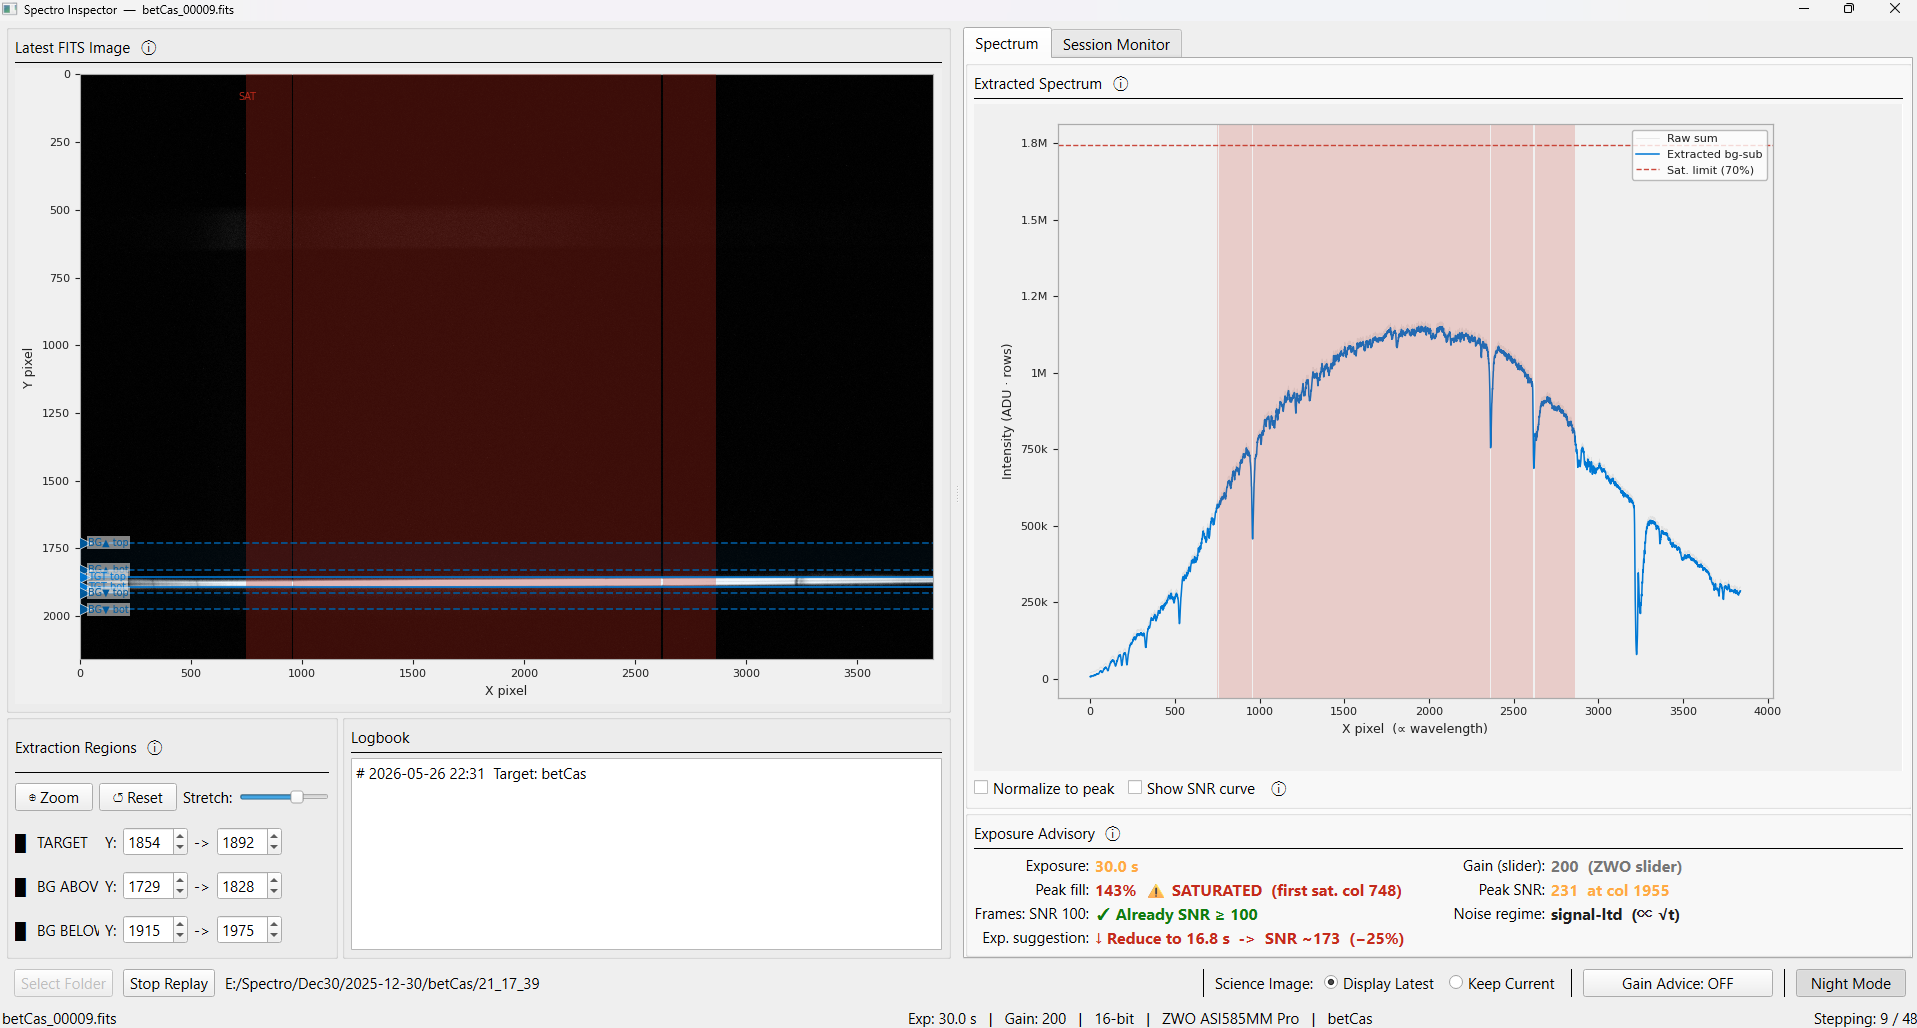
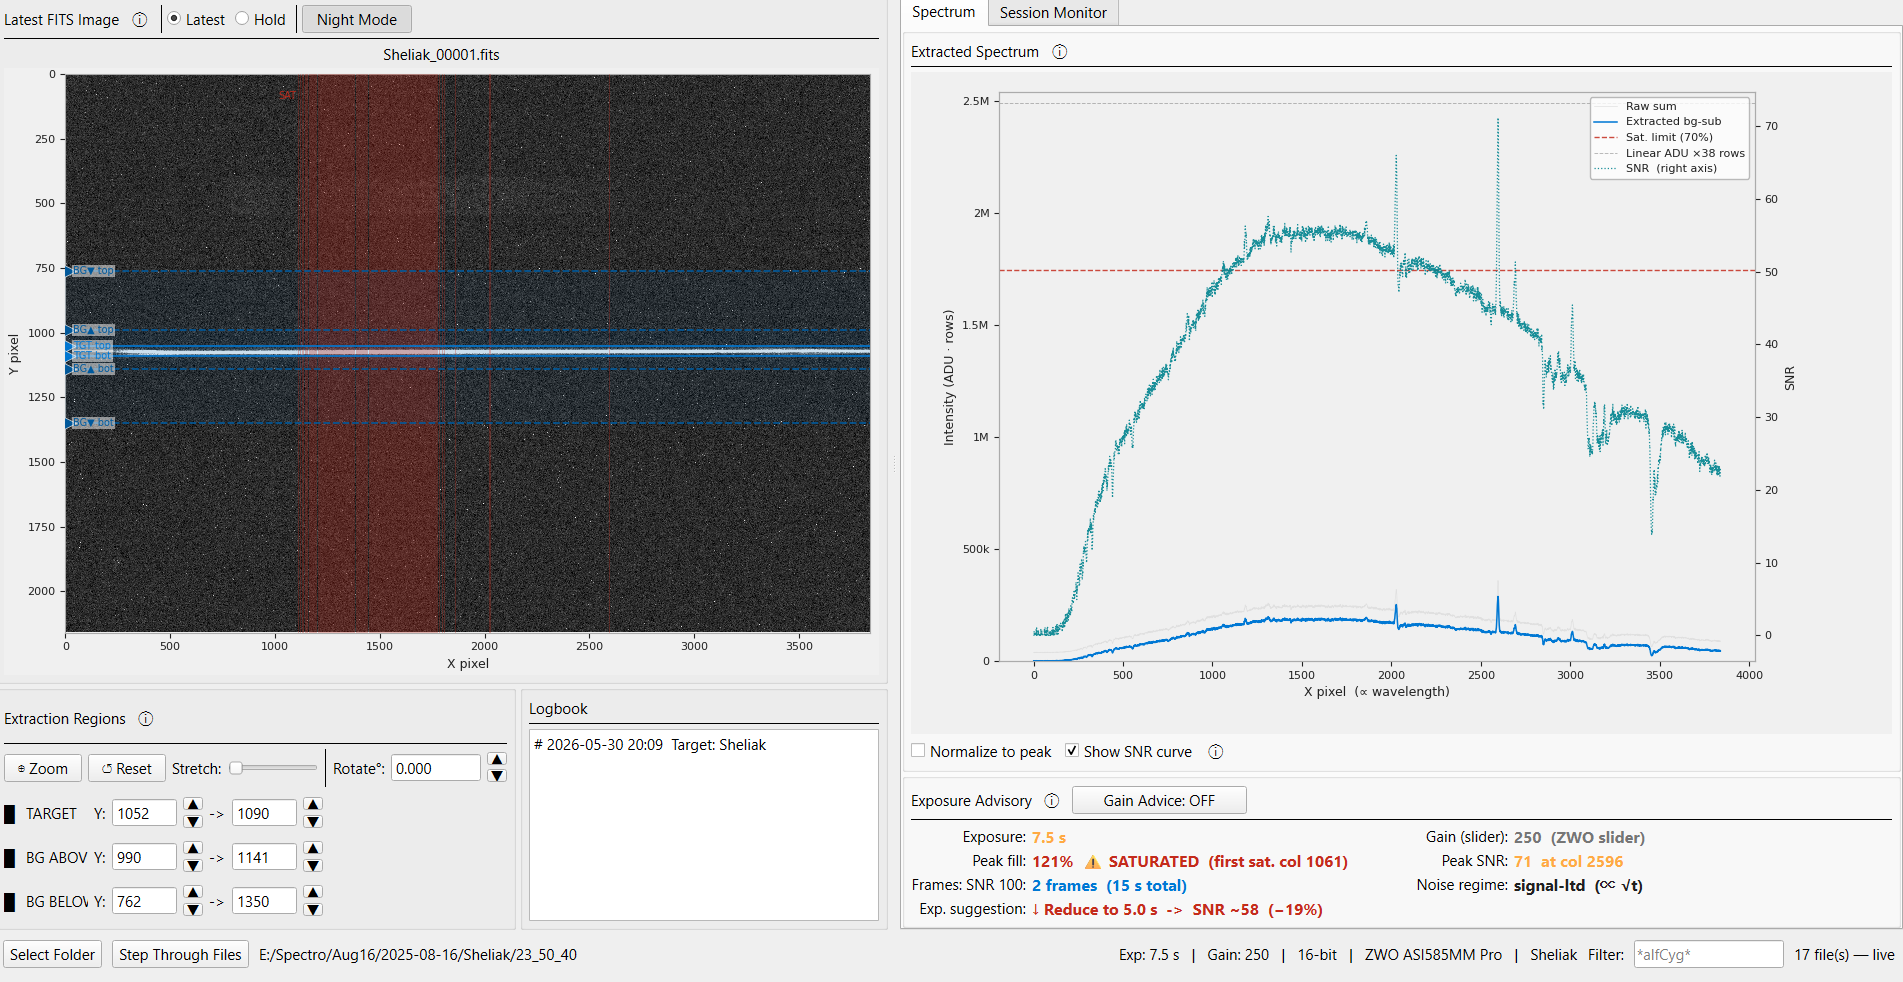
Replace screenshots with current UI captures
Remove three outdated screenshots (old FWHM-only session monitor).
Add four new screenshots showing the v5 feature set:

- SaturationDetection.png  — day mode, overexposed frame with saturation
  shading on spectrum and advisory flagging the first saturated column
- ExposureAdvisor.png      — night mode HOLD display, SNR 128 well-exposed
  frame with Gain Advisory confirming optimal HCG gain 200 setting
- SlitQuality.png          — day mode Session Monitor, Slit Quality Metrics
  panel expanded (Flux / Centroid / Asymmetry / Flux RMS), Signal
  Convergence and SNR sparkline, Frame Manager 8/11 frames
- FrameManager.png         — night mode Session Monitor, Slit Quality header
  live summary, Frame Manager table with flagged frames and Nominate button

Update README screenshot captions to match new images.

diff --git a/README.md b/README.md
@@ -65,10 +65,10 @@ Reference lines at 0 %, ±10 %, ±30 % are drawn at low opacity. The collapsible
 
 | | |
 |---|---|
-| ![Saturation detection — day mode](screenshots/SaturationDetection.png) | ![Session monitor — day mode](screenshots/SaturationDetectionSession.png) |
-| **Saturation detection (day mode)** — Red shading highlights saturated columns on both the 2D image and the extracted spectrum. The advisory panel reports the first saturated column and suggests a shorter exposure. | **Session Monitor tab (day mode)** — Slit Quality Metrics chart, Signal Convergence with ±σ envelope, SNR-vs-frame sparkline, and Frame Manager table with auto-flagged frames. |
-| ![Session monitor — night mode](screenshots/SessionMonitor_NightMode.png) | ![Session monitor — night mode, M77](screenshots/SessionMonitor_NightMode_M77.png) |
-| **Session Monitor in night-vision palette** — The full red-channel-only UI for use at the telescope. Signal Convergence, SNR sparkline, and Frame Manager shown across 10 frames. | **Night mode — M77** — Convergence chart showing persistent spectral features (coloured ticks below x-axis), 5 stacked frames with √N SNR growth tracked in the sparkline. |
+| ![Saturation detection — day mode](screenshots/SaturationDetection.png) | ![Exposure Advisory and Gain Advisory — night mode](screenshots/ExposureAdvisor.png) |
+| **Saturation detection (day mode)** — A heavily overexposed frame: a wide swath of the 2D image is washed out, and the extracted spectrum plot shows the saturated columns shaded in red. The Exposure Advisory immediately flags the saturation, reports the first saturated column, and calculates a shorter exposure suggestion. The y-axis spans the full sensor dynamic range so you can see at a glance how much headroom remains. | **Exposure Advisory + Gain Advisory (night mode)** — A well-exposed frame in Hold display mode. SNR 128.6, peak fill 76 % — right in the target range. Gain Advice is enabled: the Gain Advisory section confirms the camera is in HCG mode at gain 200, read noise ~1 e⁻, and the gain is already optimal for background-limited observing. The full red-channel-only night-vision palette is shown. |
+| ![Slit Quality Metrics — day mode](screenshots/SlitQuality.png) | ![Session Monitor and Frame Manager — night mode](screenshots/FrameManager.png) |
+| **Slit Quality Metrics (day mode)** — Session Monitor tab with the Slit Quality panel expanded. Four metrics are plotted on a shared % from baseline y-axis across 8 included frames: Integrated Flux (orange), Spatial Centroid Y (green), Profile Asymmetry (bright orange), and Flux RMS rolling window (red). The header summarises the latest values. Below it, the Signal Convergence chart shows the running mean spectrum with ±1 σ/√N envelope, and the SNR sparkline tracks frame-by-frame growth. The Frame Manager reports 8/11 frames included with 5 auto-flagged. | **Session Monitor + Frame Manager (night mode)** — The full night-vision view of the Session Monitor tab. The Slit Quality header reads Flux 2150 k, Centroid 61.5 px, Asymmetry +42 %, RMS 5.0 %. The Signal Convergence panel shows the accumulated mean spectrum with its confidence envelope. The Frame Manager table lists every frame with Peak ADU, Continuum SNR, FWHM, and Status; flagged frames are highlighted. The ★ Nominate OK button and sortable column headers are visible at the top of the table. |
 
 
 ## Requirements
